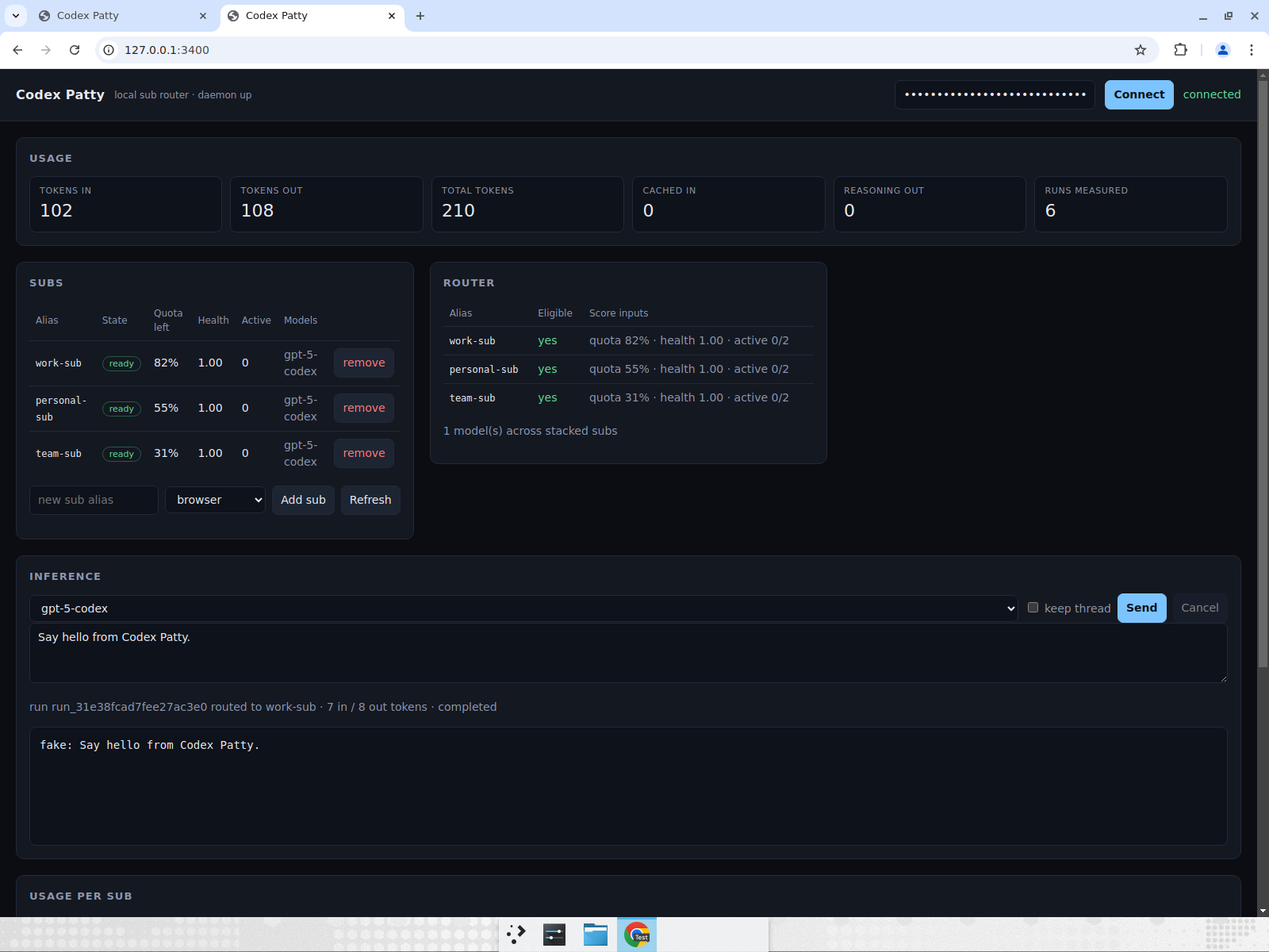
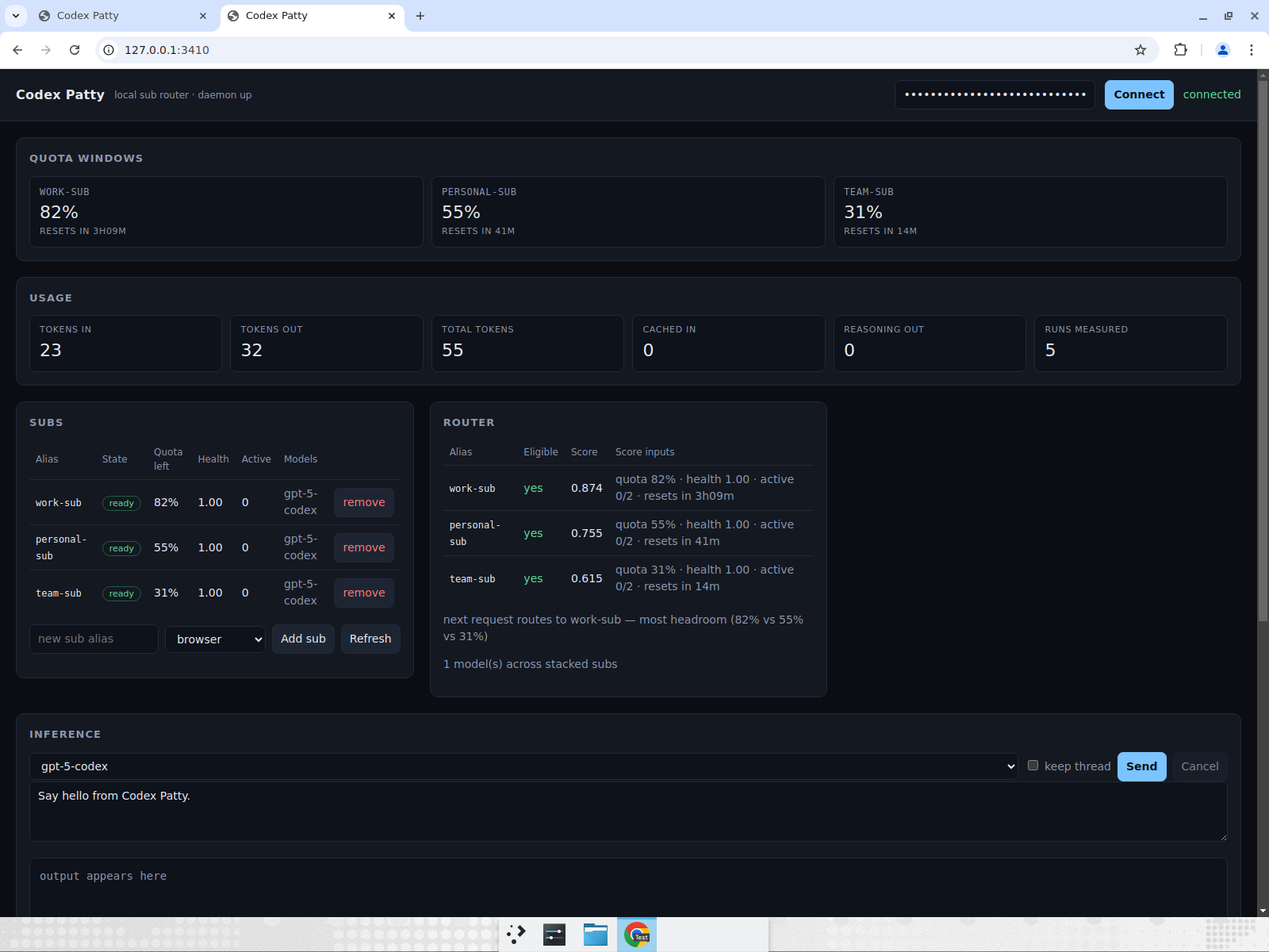
feat: quota-window routing, 429 failover, and a console that explains routing

diff --git a/apps/daemon/src/server.ts b/apps/daemon/src/server.ts
@@ -1,7 +1,7 @@
 import { createServer, type IncomingMessage, type ServerResponse } from 'node:http';
 import { randomUUID } from 'node:crypto';
 import type { Account, ProviderAdapter, RunRequest, TokenUsage } from '@patty/contracts';
-import { Coordinator, FakeAdapter, Router, Store, id, now } from './core.js';
+import { Coordinator, FakeAdapter, Router, Store, effectiveQuota, eligible, id, now, score } from './core.js';
 import { CodexAppServerAdapter } from './codex.js';
 import { consoleHtml } from './ui.js';
 import { chmodSync, mkdirSync, existsSync, lstatSync, readFileSync, realpathSync, rmSync } from 'node:fs';
@@ -48,7 +48,7 @@ export class PattyDaemon { store:Store; router:Router; coordinator:Coordinator; 
   else chunk({error:{code:'upstream_failed',message:`run ${result.status}`,requestId,retryable:true}});
   res.write('data: [DONE]\n\n');res.end();
  }
- async handler(req:IncomingMessage,res:ServerResponse){const requestId=randomUUID();try {const url=new URL(req.url??'/', 'http://localhost');if(req.method==='GET'&&(url.pathname==='/'||url.pathname==='/ui')){res.writeHead(200,{'content-type':'text/html; charset=utf-8','cache-control':'no-store','content-security-policy':"default-src 'none'; style-src 'unsafe-inline'; script-src 'unsafe-inline'; connect-src 'self'"});res.end(consoleHtml);return;} if(url.pathname==='/healthz'){if(req.method!=='GET')return write(res,405,{error:{code:'invalid_request',message:'method not allowed',requestId,retryable:false}});return write(res,200,{ok:true});} const auth=req.headers.authorization?.replace('Bearer ','');if(!auth||!this.store.verifyKey(auth))return write(res,401,{error:{code:'unauthorized',message:'valid Patty API key required',requestId,retryable:false}});if(req.method==='DELETE'&&/^\/v1\/api-keys\/[^/]+$/.test(url.pathname)){this.store.revokeKey(url.pathname.split('/').at(-1)!);return write(res,204,{});}if(req.method==='POST'&&url.pathname==='/v1/accounts/codex/login'){const body=await json(req) as {alias?:string;mode?:'browser'|'device_code'};if(!body.alias)throw new Error('invalid_request');return write(res,202,await this.addCodexAccount(body.alias,body.mode??'browser'));}const accountAction=/^\/v1\/accounts\/([^/]+)(\/refresh|\/login\/cancel)?$/.exec(url.pathname);if(accountAction){const accountId=accountAction[1]!;if(accountAction[2]==='/refresh'&&req.method==='POST')return write(res,200,await this.refreshAccount(accountId));if(accountAction[2]==='/login/cancel'&&req.method==='POST'){await this.adapters.get(accountId)?.cancelLogin();return write(res,202,{id:accountId,status:'cancelled'});}if(!accountAction[2]&&req.method==='DELETE'){await this.removeAccount(accountId);return write(res,204,{});}};if(req.method==='GET'&&url.pathname==='/v1/accounts')return write(res,200,{data:this.store.accounts().filter(a=>a.state!=='removed').map(({quota,...a})=>({...a,quota}))});if(req.method==='GET'&&url.pathname==='/v1/usage')return write(res,200,{data:this.store.usageReport()});if(req.method==='GET'&&url.pathname==='/v1/models'){const subs=this.store.accounts().filter(a=>a.state!=='removed');const models=[...new Set(subs.flatMap(a=>a.models))];return write(res,200,{object:'list',data:models.map(model=>({id:model,object:'model',owned_by:'codex-patty',subs:subs.filter(a=>a.models.includes(model)).map(a=>a.alias)}))});}if(req.method==='GET'&&url.pathname==='/v1/router/status')return write(res,200,{data:this.store.accounts().filter(a=>a.state!=='removed').map(a=>({alias:a.alias,ready:a.state==='ready',score:'redacted-components-available'}))});if(req.method==='POST'&&url.pathname==='/v1/api-keys')return write(res,201,this.store.issueKey());if(req.method==='POST'&&url.pathname==='/v1/threads'){const body=await json(req) as {model?:string;accountId?:string};if(!body.model)throw new Error('invalid_request');return write(res,201,await this.coordinator.createThread(body.model,body.accountId));}const turns=/^\/v1\/threads\/([^/]+)\/turns$/.exec(url.pathname);if(turns){if(req.method!=='POST')return write(res,405,{error:{code:'invalid_request',message:'method not allowed',requestId,retryable:false}});const body=await json(req) as RunRequest;if(!body.model||typeof body.input!=='string'||!body.input)return write(res,400,{error:{code:'invalid_request',message:'model and non-empty input required',requestId,retryable:false}});const runId=await this.coordinator.start({...body,threadId:turns[1]});return write(res,202,{id:runId,events:`/v1/runs/${runId}/events`});}if(req.method==='POST'&&url.pathname==='/v1/chat/completions')return await this.chatCompletions(req,res,requestId);if(req.method==='POST'&&url.pathname==='/v1/runs'){const body=await json(req) as RunRequest; if(!body.model||typeof body.input!=='string')throw new Error('invalid_request');const runId=await this.coordinator.start(body);return write(res,202,{id:runId,events:`/v1/runs/${runId}/events`});}const approval=/^\/v1\/runs\/([^/]+)\/approvals\/([^/]+)$/.exec(url.pathname);if(approval&&req.method==='POST'){const body=await json(req) as {approved?:unknown};if(typeof body.approved!=='boolean')throw new Error('invalid_request');await this.coordinator.approve(approval[1]!,approval[2]!,body.approved);return write(res,202,{id:approval[1]!,approvalId:approval[2]!});}const match=/^\/v1\/runs\/([^/]+)(\/events|\/cancel)?$/.exec(url.pathname);if(match){const runId=match[1]!;if(match[2]==='/cancel'){if(req.method!=='POST')return write(res,405,{error:{code:'invalid_request',message:'method not allowed',requestId,retryable:false}});const current=this.store.publicRun(runId);if(!current)return write(res,404,{error:{code:'invalid_request',message:'run not found',requestId,retryable:false}});if(current.status!=='running')return write(res,409,current);this.coordinator.cancel(runId);return write(res,202,{id:runId,status:'cancelled'});}if(match[2]==='/events'){if(req.method!=='GET')return write(res,405,{error:{code:'invalid_request',message:'method not allowed',requestId,retryable:false}});if(!this.store.run(runId))return write(res,404,{error:{code:'invalid_request',message:'run not found',requestId,retryable:false}});res.writeHead(200,{'content-type':'text/event-stream','cache-control':'no-cache','connection':'keep-alive'});let sequence=0;let closed=false;const cleanup=()=>{if(closed)return;closed=true;clearInterval(beat);this.coordinator.off(runId,listener);};const listener=(event:unknown,eventId?:number)=>{if(closed)return;sequence=eventId??sequence+1;const ok=res.write(`id: ${sequence}\nevent: patty\ndata: ${JSON.stringify(event)}\n\n`);if(!ok){cleanup();res.end();return;}const type=(event as {type?:string}).type;if(type==='completed'||type==='failed'||type==='cancelled'){cleanup();res.end();}};const beat=setInterval(()=>{if(!res.write(': heartbeat\n\n')){cleanup();res.end();}},15_000);const after=Number(req.headers['last-event-id']??0);const live=this.coordinator.liveText(runId);let replayedText=false;for(const item of this.coordinator.eventItems(runId,Number.isFinite(after)?after:0)){if(item.event.type==='delta'&&live!==undefined){if(replayedText)continue;replayedText=true;listener({...item.event,data:{text:live}},item.sequence);continue;}listener(item.event,item.sequence);}if(!closed)this.coordinator.on(runId,listener);req.on('close',cleanup);return;}if(!match[2]&&req.method==='GET'){const record=this.store.publicRun(runId);return record?write(res,200,record):write(res,404,{error:{code:'invalid_request',message:'run not found',requestId,retryable:false}});}return write(res,405,{error:{code:'invalid_request',message:'method not allowed',requestId,retryable:false}});}return write(res,404,{error:{code:'invalid_request',message:'route not found',requestId,retryable:false}});}catch(e){const code=(e as Error).message==='idempotency_conflict'?'idempotency_conflict':(e as Error).message==='no_eligible_account'?'no_eligible_account':'invalid_request';return write(res,400,{error:{code,message:code.replaceAll('_',' '),requestId,retryable:code==='no_eligible_account'}});}}
+ async handler(req:IncomingMessage,res:ServerResponse){const requestId=randomUUID();try {const url=new URL(req.url??'/', 'http://localhost');if(req.method==='GET'&&(url.pathname==='/'||url.pathname==='/ui')){res.writeHead(200,{'content-type':'text/html; charset=utf-8','cache-control':'no-store','content-security-policy':"default-src 'none'; style-src 'unsafe-inline'; script-src 'unsafe-inline'; connect-src 'self'"});res.end(consoleHtml);return;} if(url.pathname==='/healthz'){if(req.method!=='GET')return write(res,405,{error:{code:'invalid_request',message:'method not allowed',requestId,retryable:false}});return write(res,200,{ok:true});} const auth=req.headers.authorization?.replace('Bearer ','');if(!auth||!this.store.verifyKey(auth))return write(res,401,{error:{code:'unauthorized',message:'valid Patty API key required',requestId,retryable:false}});if(req.method==='DELETE'&&/^\/v1\/api-keys\/[^/]+$/.test(url.pathname)){this.store.revokeKey(url.pathname.split('/').at(-1)!);return write(res,204,{});}if(req.method==='POST'&&url.pathname==='/v1/accounts/codex/login'){const body=await json(req) as {alias?:string;mode?:'browser'|'device_code'};if(!body.alias)throw new Error('invalid_request');return write(res,202,await this.addCodexAccount(body.alias,body.mode??'browser'));}const accountAction=/^\/v1\/accounts\/([^/]+)(\/refresh|\/login\/cancel)?$/.exec(url.pathname);if(accountAction){const accountId=accountAction[1]!;if(accountAction[2]==='/refresh'&&req.method==='POST')return write(res,200,await this.refreshAccount(accountId));if(accountAction[2]==='/login/cancel'&&req.method==='POST'){await this.adapters.get(accountId)?.cancelLogin();return write(res,202,{id:accountId,status:'cancelled'});}if(!accountAction[2]&&req.method==='DELETE'){await this.removeAccount(accountId);return write(res,204,{});}};if(req.method==='GET'&&url.pathname==='/v1/accounts')return write(res,200,{data:this.store.accounts().filter(a=>a.state!=='removed').map(({quota,...a})=>({...a,quota}))});if(req.method==='GET'&&url.pathname==='/v1/usage')return write(res,200,{data:this.store.usageReport()});if(req.method==='GET'&&url.pathname==='/v1/models'){const subs=this.store.accounts().filter(a=>a.state!=='removed');const models=[...new Set(subs.flatMap(a=>a.models))];return write(res,200,{object:'list',data:models.map(model=>({id:model,object:'model',owned_by:'codex-patty',subs:subs.filter(a=>a.models.includes(model)).map(a=>a.alias)}))});}if(req.method==='GET'&&url.pathname==='/v1/router/status'){const at=Date.now();const model=url.searchParams.get('model')??undefined;return write(res,200,{data:this.store.accounts().filter(a=>a.state!=='removed').map(a=>({alias:a.alias,ready:a.state==='ready',eligible:model?eligible(a,{model,input:''},undefined,at):a.state==='ready',quotaRemaining:a.quota.remaining,effectiveQuota:effectiveQuota(a,at),resetAt:a.quota.resetAt,resetsInMs:a.quota.resetAt?Math.max(0,Date.parse(a.quota.resetAt)-at):undefined,health:a.health,activeRuns:a.activeRuns,cooldownUntil:a.cooldownUntil,score:Number(score(a,'status',at).toFixed(4))})).sort((x,y)=>y.score-x.score)});}if(req.method==='POST'&&url.pathname==='/v1/api-keys')return write(res,201,this.store.issueKey());if(req.method==='POST'&&url.pathname==='/v1/threads'){const body=await json(req) as {model?:string;accountId?:string};if(!body.model)throw new Error('invalid_request');return write(res,201,await this.coordinator.createThread(body.model,body.accountId));}const turns=/^\/v1\/threads\/([^/]+)\/turns$/.exec(url.pathname);if(turns){if(req.method!=='POST')return write(res,405,{error:{code:'invalid_request',message:'method not allowed',requestId,retryable:false}});const body=await json(req) as RunRequest;if(!body.model||typeof body.input!=='string'||!body.input)return write(res,400,{error:{code:'invalid_request',message:'model and non-empty input required',requestId,retryable:false}});const runId=await this.coordinator.start({...body,threadId:turns[1]});return write(res,202,{id:runId,events:`/v1/runs/${runId}/events`});}if(req.method==='POST'&&url.pathname==='/v1/chat/completions')return await this.chatCompletions(req,res,requestId);if(req.method==='POST'&&url.pathname==='/v1/runs'){const body=await json(req) as RunRequest; if(!body.model||typeof body.input!=='string')throw new Error('invalid_request');const runId=await this.coordinator.start(body);return write(res,202,{id:runId,events:`/v1/runs/${runId}/events`});}const approval=/^\/v1\/runs\/([^/]+)\/approvals\/([^/]+)$/.exec(url.pathname);if(approval&&req.method==='POST'){const body=await json(req) as {approved?:unknown};if(typeof body.approved!=='boolean')throw new Error('invalid_request');await this.coordinator.approve(approval[1]!,approval[2]!,body.approved);return write(res,202,{id:approval[1]!,approvalId:approval[2]!});}const match=/^\/v1\/runs\/([^/]+)(\/events|\/cancel)?$/.exec(url.pathname);if(match){const runId=match[1]!;if(match[2]==='/cancel'){if(req.method!=='POST')return write(res,405,{error:{code:'invalid_request',message:'method not allowed',requestId,retryable:false}});const current=this.store.publicRun(runId);if(!current)return write(res,404,{error:{code:'invalid_request',message:'run not found',requestId,retryable:false}});if(current.status!=='running')return write(res,409,current);this.coordinator.cancel(runId);return write(res,202,{id:runId,status:'cancelled'});}if(match[2]==='/events'){if(req.method!=='GET')return write(res,405,{error:{code:'invalid_request',message:'method not allowed',requestId,retryable:false}});if(!this.store.run(runId))return write(res,404,{error:{code:'invalid_request',message:'run not found',requestId,retryable:false}});res.writeHead(200,{'content-type':'text/event-stream','cache-control':'no-cache','connection':'keep-alive'});let sequence=0;let closed=false;const cleanup=()=>{if(closed)return;closed=true;clearInterval(beat);this.coordinator.off(runId,listener);};const listener=(event:unknown,eventId?:number)=>{if(closed)return;sequence=eventId??sequence+1;const ok=res.write(`id: ${sequence}\nevent: patty\ndata: ${JSON.stringify(event)}\n\n`);if(!ok){cleanup();res.end();return;}const type=(event as {type?:string}).type;if(type==='completed'||type==='failed'||type==='cancelled'){cleanup();res.end();}};const beat=setInterval(()=>{if(!res.write(': heartbeat\n\n')){cleanup();res.end();}},15_000);const after=Number(req.headers['last-event-id']??0);const live=this.coordinator.liveText(runId);let replayedText=false;for(const item of this.coordinator.eventItems(runId,Number.isFinite(after)?after:0)){if(item.event.type==='delta'&&live!==undefined){if(replayedText)continue;replayedText=true;listener({...item.event,data:{text:live}},item.sequence);continue;}listener(item.event,item.sequence);}if(!closed)this.coordinator.on(runId,listener);req.on('close',cleanup);return;}if(!match[2]&&req.method==='GET'){const record=this.store.publicRun(runId);return record?write(res,200,record):write(res,404,{error:{code:'invalid_request',message:'run not found',requestId,retryable:false}});}return write(res,405,{error:{code:'invalid_request',message:'method not allowed',requestId,retryable:false}});}return write(res,404,{error:{code:'invalid_request',message:'route not found',requestId,retryable:false}});}catch(e){const code=(e as Error).message==='idempotency_conflict'?'idempotency_conflict':(e as Error).message==='no_eligible_account'?'no_eligible_account':'invalid_request';return write(res,400,{error:{code,message:code.replaceAll('_',' '),requestId,retryable:code==='no_eligible_account'}});}}
  async shutdown(){await this.coordinator.shutdown();}
  listen(port=0,host='127.0.0.1'){if(host!=='127.0.0.1'&&host!=='::1')throw new Error('loopback binding is mandatory');const server=createServer(this.handler.bind(this));return new Promise<typeof server>(resolve=>server.listen(port,host,()=>resolve(server)));}
 }

diff --git a/apps/daemon/src/ui.ts b/apps/daemon/src/ui.ts
@@ -58,6 +58,11 @@ code { font-family:ui-monospace,SFMono-Regular,Menlo,monospace; font-size:12px; 
 </header>
 <main>
   <section class="wide">
+    <h2>Quota windows</h2>
+    <div class="cards" id="quota-strip"><div class="card"><div class="k">no subs stacked yet</div><div class="v">—</div></div></div>
+  </section>
+
+  <section class="wide">
     <h2>Usage</h2>
     <div class="cards">
       <div class="card"><div class="k">Tokens in</div><div class="v" id="t-in">0</div></div>
@@ -83,7 +88,8 @@ code { font-family:ui-monospace,SFMono-Regular,Menlo,monospace; font-size:12px; 
 
   <section>
     <h2>Router</h2>
-    <table><thead><tr><th>Alias</th><th>Eligible</th><th>Score inputs</th></tr></thead><tbody id="router"><tr><td colspan="3" class="muted">connect to load</td></tr></tbody></table>
+    <table><thead><tr><th>Alias</th><th>Eligible</th><th>Score</th><th>Score inputs</th></tr></thead><tbody id="router"><tr><td colspan="4" class="muted">connect to load</td></tr></tbody></table>
+    <p class="muted" id="routing-why"></p>
     <p class="muted" id="models"></p>
   </section>
 
@@ -141,13 +147,30 @@ function renderAccounts(accounts) {
   for (const button of el('accounts').querySelectorAll('[data-remove]')) button.onclick = async () => { if (confirm('Remove this sub?')) { await api('/v1/accounts/' + button.dataset.remove, { method: 'DELETE' }); await load(); } };
 }
 
-function renderRouter(status, accounts) {
-  const byAlias = new Map(accounts.map(account => [account.alias, account]));
+const pct = value => value === undefined ? '?' : Math.round(value * 100) + '%';
+const countdown = ms => { if (ms === undefined) return 'no reset reported'; if (ms <= 0) return 'window rolled over'; const minutes = Math.round(ms / 60000); return minutes < 60 ? 'resets in ' + minutes + 'm' : 'resets in ' + Math.floor(minutes / 60) + 'h' + String(minutes % 60).padStart(2, '0') + 'm'; };
+
+function renderRouter(status) {
   el('router').innerHTML = status.length ? status.map(entry => {
-    const account = byAlias.get(entry.alias);
-    const inputs = account ? \`quota \${account.quota?.remaining === undefined ? '?' : Math.round(account.quota.remaining * 100) + '%'} · health \${account.health.toFixed(2)} · active \${account.activeRuns}/2\` : '—';
-    return \`<tr><td><code>\${entry.alias}</code></td><td class="\${entry.ready ? 'ok' : 'err'}">\${entry.ready ? 'yes' : 'no'}</td><td class="muted">\${inputs}</td></tr>\`;
-  }).join('') : '<tr><td colspan="3" class="muted">no subs stacked yet</td></tr>';
+    const inputs = \`quota \${pct(entry.effectiveQuota)}\${entry.quotaRemaining !== entry.effectiveQuota ? ' (snapshot ' + pct(entry.quotaRemaining) + ', window rolled over)' : ''} · health \${entry.health.toFixed(2)} · active \${entry.activeRuns}/2 · \${countdown(entry.resetsInMs)}\`;
+    return \`<tr><td><code>\${entry.alias}</code></td><td class="\${entry.ready ? 'ok' : 'err'}">\${entry.ready ? 'yes' : 'no'}</td><td>\${entry.score.toFixed(3)}</td><td class="muted">\${inputs}</td></tr>\`;
+  }).join('') : '<tr><td colspan="4" class="muted">no subs stacked yet</td></tr>';
+  el('routing-why').textContent = explainRouting(status);
+  el('quota-strip').innerHTML = status.length ? status.map(entry => \`<div class="card">
+    <div class="k"><code>\${entry.alias}</code></div>
+    <div class="v">\${pct(entry.effectiveQuota)}</div>
+    <div class="k">\${countdown(entry.resetsInMs)}\${entry.cooldownUntil && Date.parse(entry.cooldownUntil) > Date.now() ? ' · cooling down' : ''}</div></div>\`).join('') : '<div class="card"><div class="k">no subs stacked yet</div><div class="v">—</div></div>';
+}
+
+/** The router already computes why it prefers a sub; saying it in words is what makes the choice reviewable. */
+function explainRouting(status) {
+  const ready = status.filter(entry => entry.ready);
+  if (!ready.length) return status.length ? 'no sub is ready to serve a request' : '';
+  const [best, ...rest] = ready;
+  const headroom = pct(best.effectiveQuota) + (rest.length ? ' vs ' + rest.map(entry => pct(entry.effectiveQuota)).join(' vs ') : '');
+  const soonest = ready.filter(entry => entry.resetsInMs !== undefined).sort((a, b) => a.resetsInMs - b.resetsInMs)[0];
+  const urgency = soonest && soonest.alias === best.alias && rest.length ? ', and its window ' + countdown(best.resetsInMs) + ' so that headroom is use-it-or-lose-it' : '';
+  return 'next request routes to ' + best.alias + ' — most headroom (' + headroom + ')' + urgency;
 }
 
 function renderUsage(report) {
@@ -178,7 +201,7 @@ async function load() {
   if (!key) { setAuth('no key', 'err'); return; }
   try {
     const [accounts, router, models, usage] = await Promise.all([api('/v1/accounts'), api('/v1/router/status'), api('/v1/models'), api('/v1/usage')]);
-    renderAccounts(accounts.data); renderRouter(router.data, accounts.data); renderModels(models.data); renderUsage(usage.data);
+    renderAccounts(accounts.data); renderRouter(router.data); renderModels(models.data); renderUsage(usage.data);
     setAuth('connected', 'ok');
   } catch (error) { setAuth(String(error.message), 'err'); }
 }

diff --git a/apps/daemon/test/integration.test.ts b/apps/daemon/test/integration.test.ts
@@ -160,3 +160,32 @@ describe('quota failover', () => {
     expect(response.headers.get('x-patty-sub')).toBe('stale');
   });
 });
+
+describe('router status', () => {
+  it('explains the ranking with quota windows rather than a redacted score', async () => {
+    const daemon = new PattyDaemon();
+    const roomy = daemon.addFakeAccount('roomy', ['gpt-5-codex'], .8);
+    const tight = daemon.addFakeAccount('tight', ['gpt-5-codex'], .2);
+    tight.quota = { remaining: .2, resetAt: new Date(Date.now() + 1_800_000).toISOString(), observedAt: new Date().toISOString() };
+    daemon.store.updateAccount(tight);
+    server = await daemon.listen();
+    const { port } = server.address() as { port: number };
+    const body = await (await fetch(`http://127.0.0.1:${port}/v1/router/status?model=gpt-5-codex`, { headers: { authorization: `Bearer ${daemon.key}` } })).json() as { data: { alias: string; eligible: boolean; effectiveQuota: number; resetsInMs?: number; score: number }[] };
+    expect(body.data.map(entry => entry.alias)).toEqual(['roomy', 'tight']);
+    expect(body.data.every(entry => entry.eligible)).toBe(true);
+    expect(body.data[0]?.score).toBeGreaterThan(body.data[1]!.score);
+    expect(body.data[0]?.effectiveQuota).toBeCloseTo(.8);
+    expect(body.data[0]?.resetsInMs).toBeUndefined();
+    expect(body.data[1]?.resetsInMs).toBeGreaterThan(1_700_000);
+    expect(daemon.store.account(roomy.id)?.alias).toBe('roomy');
+  });
+
+  it('marks a model nobody serves as ineligible without hiding the sub', async () => {
+    const daemon = new PattyDaemon();
+    daemon.addFakeAccount('only-codex', ['gpt-5-codex']);
+    server = await daemon.listen();
+    const { port } = server.address() as { port: number };
+    const body = await (await fetch(`http://127.0.0.1:${port}/v1/router/status?model=gpt-4o`, { headers: { authorization: `Bearer ${daemon.key}` } })).json() as { data: { alias: string; ready: boolean; eligible: boolean }[] };
+    expect(body.data).toMatchObject([{ alias: 'only-codex', ready: true, eligible: false }]);
+  });
+});

diff --git a/apps/daemon/src/main.ts b/apps/daemon/src/main.ts
@@ -7,10 +7,14 @@ const dbPath = process.env.PATTY_DB_PATH ?? defaultDbPath;
 // Only Patty's own default directory is permission-managed; an explicit path is operator-owned.
 if (dbPath === defaultDbPath) { mkdirSync(dirname(dbPath), { recursive: true, mode: 0o700 }); chmodSync(dirname(dbPath), 0o700); }
 const daemon = new PattyDaemon(dbPath);
-// `--fake` stacks one demo sub; repeat `--fake=<alias>[:<quotaRemaining>]` to stack several and watch routing choose between them.
+// `--fake` stacks one demo sub; repeat `--fake=<alias>[:<quotaRemaining>[:<minutesUntilReset>]]` to stack several and watch routing choose between them, including the use-it-or-lose-it preference for a window about to roll over.
 for (const argument of process.argv.filter(value => value === '--fake' || value.startsWith('--fake='))) {
-  const [alias = 'fake-primary', remaining] = argument.slice('--fake'.length).replace(/^=/, '').split(':');
-  daemon.addFakeAccount(alias || 'fake-primary', ['gpt-5-codex'], remaining === undefined ? 1 : Number(remaining));
+  const [alias = 'fake-primary', remaining, resetInMinutes] = argument.slice('--fake'.length).replace(/^=/, '').split(':');
+  const account = daemon.addFakeAccount(alias || 'fake-primary', ['gpt-5-codex'], remaining === undefined ? 1 : Number(remaining));
+  if (resetInMinutes !== undefined && Number.isFinite(Number(resetInMinutes))) {
+    account.quota = { ...account.quota, resetAt: new Date(Date.now() + Number(resetInMinutes) * 60_000).toISOString() };
+    daemon.store.updateAccount(account);
+  }
 }
 const restored = await daemon.restoreCodexAccounts();
 const server = await daemon.listen(Number(process.env.PATTY_PORT ?? 3210));

diff --git a/README.md b/README.md
@@ -11,10 +11,10 @@ Patty is a local, loopback-only daemon that holds several signed-in Codex/ChatGP
 ```sh
 corepack pnpm install
 corepack pnpm build
-node apps/daemon/dist/src/main.js --fake=work-sub:0.82 --fake=personal-sub:0.55 --fake=team-sub:0.31
+node apps/daemon/dist/src/main.js --fake=work-sub:0.82:190 --fake=personal-sub:0.55:41 --fake=team-sub:0.31:14
 ```
 
-Open <http://127.0.0.1:3210/> and paste the one-time `cp_live_…` key the daemon printed. `--fake=<alias>[:<quotaRemaining>]` stacks fake subs, so routing, streaming and per-sub metering are all observable without touching a real account. That's exactly what the screenshot above shows.
+Open <http://127.0.0.1:3210/> and paste the one-time `cp_live_…` key the daemon printed. `--fake=<alias>[:<quotaRemaining>[:<minutesUntilReset>]]` stacks fake subs, so routing, streaming and per-sub metering are all observable without touching a real account. That's exactly what the screenshot above shows.
 
 ## Use it with real subs
 
@@ -60,7 +60,8 @@ Not yet supported: tool/function calling, `n>1`, logprobs, and images.
 | | |
 | --- | --- |
 | **Stacking** | Any number of subs, each isolated in its own `CODEX_HOME`; add and remove them at runtime. |
-| **Routing** | Per-request selection on remaining quota, health, in-flight runs and model eligibility, under a short transactional lease so two requests can't grab the same slot. The console shows every score input, so a routing decision is never a black box. |
+| **Routing** | Per-request selection on remaining quota, health, in-flight runs and model eligibility, under a short transactional lease so two requests can't grab the same slot. Quota is read as the rolling window it is: a sub whose window has already reset counts as full again, and headroom about to expire is preferred as use-it-or-lose-it. The console names the winner and why ("most headroom, 82% vs 55% vs 31%"), so a routing decision is never a black box. |
+| **Failover** | A sub that answers with a 429/usage-limit error is parked until its own reset and the run is retried on another eligible sub, before any output has streamed. |
 | **Streaming** | Runs stream over SSE with sequence IDs, heartbeats, replay for late subscribers, and cancellation by the provider's own turn ID. |
 | **Metering** | Tokens in / cached in / out / reasoning out / total, per run and per sub, taken from the provider's `thread/tokenUsage/updated` telemetry rather than estimated. Latest snapshot per run wins, so repeated updates never double-count. |
 | **Thread affinity** | Pin a conversation to the sub that started it so multi-turn context isn't lost to routing. |

diff --git a/docs/api.md b/docs/api.md
@@ -12,6 +12,18 @@
 
 `GET /v1/models` returns OpenAI's list shape (`{object:'list',data:[{id,object:'model',owned_by}]}`) with a Patty-specific `subs` array naming which stacked subs can serve each model.
 
+## Routing and quota windows
+
+`GET /v1/router/status[?model=<model>]` returns the live ranking with the inputs behind it: `quotaRemaining` (last provider snapshot), `effectiveQuota`, `resetAt`/`resetsInMs`, `health`, `activeRuns`, `cooldownUntil` and the computed `score`, sorted best-first. Passing `model` evaluates real eligibility for that model instead of just readiness.
+
+Quota is a rolling window, so Patty reads it as one:
+
+- once `resetAt` has passed, a stored `remaining` describes a window that no longer exists, so the sub counts as full again and becomes eligible without waiting for a refresh;
+- an unknown `remaining` counts as half — neither trusted nor excluded;
+- headroom in a window that is about to roll over is use-it-or-lose-it, so a small `resetUrgency` term (weight .05) breaks ties toward the sooner-resetting sub without overriding real headroom (weight .55).
+
+When a provider rejects a turn with a rate-limit/usage-limit/429 error before any output, Patty marks that sub's quota exhausted, parks it until its own `resetAt` (or 15 minutes if the provider never reported one), and retries the run once on another eligible sub. The attempt is recorded with reason `quota_failover`, so `run_attempts` shows where a request actually ran. If nothing else is eligible the run fails as `quota_exhausted`. Once output has started, Patty does not fail over — replaying a partially streamed answer on another sub would corrupt it.
+
 ## Usage metering
 
 `GET /v1/usage` returns token totals, per-sub aggregates, and the most recent measured runs. Patty persists only provider-reported counts (input, cached input, output, reasoning output, total) keyed by run, sub, and model — never prompts or generated text. A run's row is replaced by each newer provider snapshot, so totals stay exact when a turn reports usage more than once.
